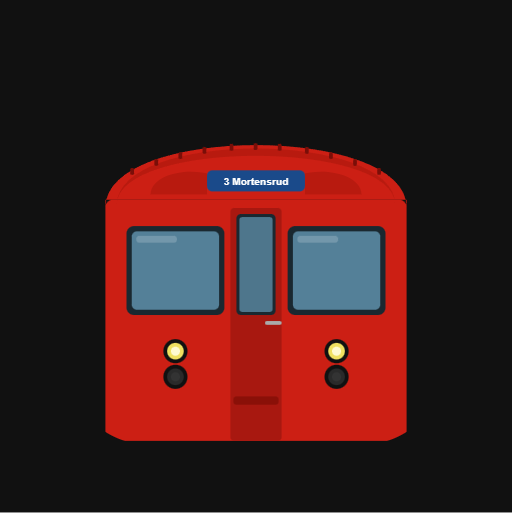
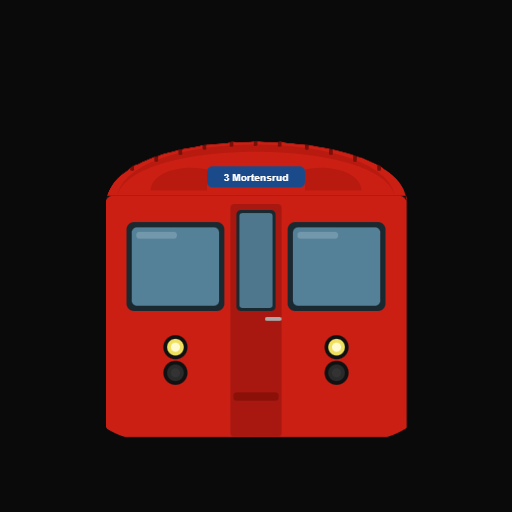
Ikoner: fjern alpha-kanal og fiks 512x520→512x512
PNG-filene var RGBA med transparente piksler — iOS og Android
fyller transparens med hvitt, som ga den hvite kanten. Nå er
begge filer RGB uten alpha og korrekt kvadratiske.

Manifest: splitter 'any maskable' i separate oppføringer.

diff --git a/app/manifest.ts b/app/manifest.ts
@@ -15,13 +15,19 @@ export default function manifest(): MetadataRoute.Manifest {
         src: '/icon-192.png',
         sizes: '192x192',
         type: 'image/png',
-        purpose: 'any maskable' as 'maskable',
+        purpose: 'any' as 'any',
       },
       {
         src: '/icon-512.png',
         sizes: '512x512',
         type: 'image/png',
-        purpose: 'any maskable' as 'maskable',
+        purpose: 'any' as 'any',
+      },
+      {
+        src: '/icon-512.png',
+        sizes: '512x512',
+        type: 'image/png',
+        purpose: 'maskable' as 'maskable',
       },
     ],
   }
